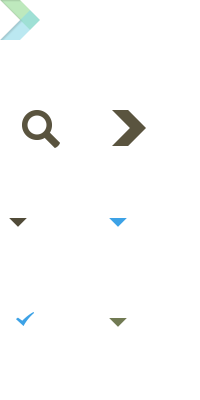
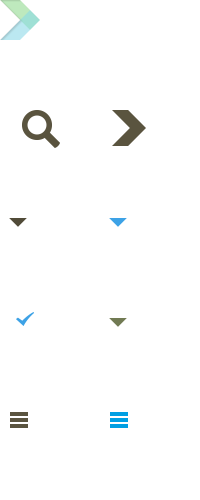
Styling of single concept

diff --git a/app/assets/stylesheets/concept.css.scss b/app/assets/stylesheets/concept.css.scss
@@ -3,6 +3,7 @@
 
 .concept {
   margin-right: 270px;
+  min-width: 400px;
   position: relative;
   
   h2 {
@@ -19,6 +20,7 @@
   .concept-tree, .properties {
     @include dottedline;
   }
+
   
   .terms {
     padding-top: 20px;
@@ -26,19 +28,22 @@
     .language {
       @include retina-separator;
       background-repeat: repeat-x;
-      padding-top: 3px;
+      padding-top: 8px;
+      min-height: 19px;
     }
     
     .section-toggle {
-      margin-bottom: 1px;
+      margin: 1px 0;
+      position: absolute;
+      z-index: 2;
     }
     
     .section {
-      margin-top: -10px;
-      padding-bottom: 2px;
+      padding: 0 0 2px 0;
     }
     
     .term {
+      overflow: hidden;
       position: relative;
       @include dottedline;
       &:first-child {
@@ -49,11 +54,17 @@
         font: 1.4em Palatino;
         padding-left: 100px;
         padding-bottom: 6px;
-        padding-top: 8px;
+        padding-top: 12px;
         &:before {
           content:"» ";
           font-size: 1.3em;
         };
+      }
+      >.system-info {
+        padding-left: 116px;
+        table {
+          margin-top: 2px;
+        }
       }
     }
     .properties {
@@ -61,7 +72,7 @@
       .section-toggle {
         position: absolute;
         right: 20px;
-        top: 8px;
+        top: 14px;
       }
       .section {
         margin: 0;
@@ -87,49 +98,65 @@
       &:before {
         @include rotate(-90deg);
       };
-      &:hover {
-        &:before {
-          @include rotate(0deg);
-        };
-      };
     }
   }
   
   .system-info-toggle {
     display: block;
-    width: 16px;   
-    height: 16px;
+    width: 17px;   
+    height: 17px;
+    background: rgba($greencolor, 0.2) image-url("layout/icons.png") no-repeat -1px -201px;
+    @include retina-icons;
     text-indent: -2000px;
     overflow: hidden;
     position: absolute;
     right: 0;
     top: 15px;
-    background-color: $bluecolor;
+    @include opacity(0.5);
+    &:hover {
+      cursor: pointer;
+      @include opacity(1);
+      background-position: -51px -201px;
+    };
   }
   .system-info {
     font-size: 0.9em;
-    line-height: 1.2em;
+    line-height: 12px;
     
     table {
-      margin-top: 4px;
+      margin: 8px 0 2px 0;
+      
       td, th {
         color: $greytext-color;
         padding-top: 0px;
-      }
-      
-/*      th {
+        padding-right: 6px;
+      }     
+      th {
         width: auto;
+        padding-top: 1px;
+        padding-left: 6px;
+        border-left: 1px solid $greytext-color;
+      }
+      td {
+        font: 1em Palatino;
+        font-style: italic;
       }
       tr {
         float: left;
-      }*/
+        padding-bottom: 3px;
+        &:first-child th{
+          padding-left: 0;
+          border: none;
+        };
+      }
     }
   }
   
   table {
+    border-spacing: 0;
     
     tr {
-        vertical-align: baseline;
+        vertical-align: top;
         
       td, th {
         padding-top: 10px;
@@ -139,14 +166,57 @@
         text-align: right;
         text-transform: uppercase;
         font-size: 0.8em;
+        padding-top: 11px;
         color: $browncolor;
         width: 98px;
         padding-right: 16px;
       }
     }
-    .system-info {
+  }
+  
+  ul.index, ul.values {
+    overflow: hidden;
+    list-style: none;
+  }
+  
+  ul.index {
+    padding-bottom: 10px;
+  
+    li {
       position: relative;
-      left:-118px;
+      float: left;
+      text-transform: uppercase;
+      font-size: 0.8em;
+      padding-top: 1px;
+      
+      a {
+        padding: 0 10px;
+        border-left: 1px solid $browncolor;
+      }
+      &:first-child a{
+        border:none;
+        padding-left: 0;
+      }
+      
+      &.selected  {
+        &:before {
+          @include before-icon;
+          position: absolute;
+          top: 11px;
+          left: 10px;
+          background-position: -04px -100px;
+        }
+        &:first-child {
+          &:before {
+            left: 0;
+          };
+        }
+        a {
+          color: $browncolor;
+        }
+      }
     }
   }
+  
+  
 }

diff --git a/app/assets/stylesheets/concept_tree.css.scss b/app/assets/stylesheets/concept_tree.css.scss
@@ -1,0 +1,77 @@
+@import '_config';
+@import 'compass/css3';
+
+.concept {
+
+  .concept-tree .section{
+/*    display:table-cell;*/
+    position: relative;
+    padding-bottom: 20px;
+    padding-top: 10px;
+    .self {   
+      @include concept-icon;
+    }
+    ul, .self {
+      list-style: none;
+      display: inline-block;
+      padding: 0 30px;
+      vertical-align: middle;
+    }
+    ul.super {
+      position: relative;
+      background: image-url("layout/bracket.png") no-repeat right center;
+      &:before {
+        content:"";
+        display: block;
+        width: 12px;
+        height: 4px;
+        position: absolute;
+        top: -4px;
+        right: 0;
+        background: image-url("layout/bracket.png") no-repeat 0px 0px;
+      };
+      &:after {
+        content:"";
+        display: block;
+        width: 12px;
+        height: 4px;
+        position: absolute;
+        bottom: -4px;
+        right: 0;
+        background: image-url("layout/bracket.png") no-repeat 0px bottom;
+      };
+    }
+    ul.sub {
+      position: relative;
+      padding-right: 0;
+      background: image-url("layout/bracket.png") no-repeat left center;
+      &:before {
+        content:"";
+        display: block;
+        width: 12px;
+        height: 4px;
+        position: absolute;
+        top: -4px;
+        left: 0;
+        background: image-url("layout/bracket.png") no-repeat 0px 0px;
+      };
+      &:after {
+        content:"";
+        display: block;
+        width: 12px;
+        height: 4px;
+        position: absolute;
+        bottom: -4px;
+        left: 0;
+        background: image-url("layout/bracket.png") no-repeat 0px bottom;
+      };
+    }
+    ul:empty {
+      min-height: 18px;
+      min-width: 30px;
+      @include opacity(0.3);
+    }
+  }
+  
+  
+}

diff --git a/app/assets/stylesheets/_config.css.scss b/app/assets/stylesheets/_config.css.scss
@@ -79,7 +79,7 @@ $widget-width: 320px;
   background-image: image-url('layout/icons.png');
   @media only screen and (-webkit-min-device-pixel-ratio: 2) {
       background-image: image-url('layout/icons@2x.png');
-      @include background-size(100px 200px);
+      @include background-size(100px 250px);
   } 
 }
 

diff --git a/app/assets/stylesheets/layout.css.scss b/app/assets/stylesheets/layout.css.scss
@@ -35,5 +35,6 @@
 }
 
 #coreon-main {
-  padding: 60px 100px;
+  padding: 0 100px;
+  margin-top: 60px;
 }
